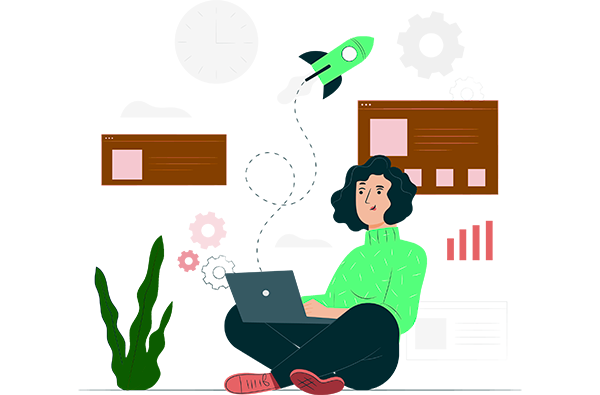
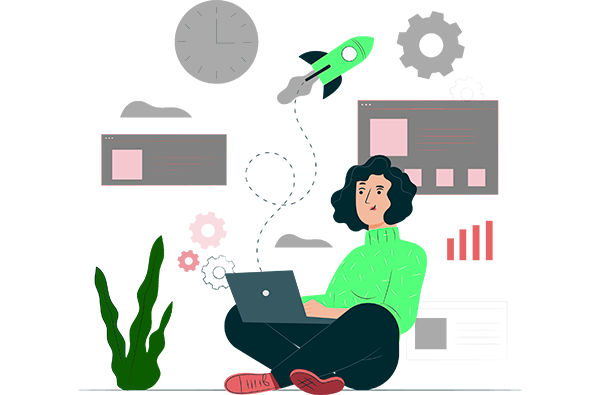
change color styles

diff --git a/index.html b/index.html
@@ -173,19 +173,19 @@
                   <g id="elipse">
                     <path id="Ð&shy;Ð»Ð»Ð¸Ð¿Ñ 1" fill-rule="evenodd" clip-rule="evenodd"
                       d="M191.327 46.8C197.911 46.7999 204.347 48.7521 209.821 52.4097C215.295 56.0674 219.562 61.2662 222.081 67.3487C224.601 73.4312 225.26 80.1243 223.975 86.5815C222.691 93.0386 219.521 98.9699 214.865 103.625C210.21 108.281 204.279 111.451 197.821 112.735C191.364 114.02 184.671 113.361 178.589 110.841C172.506 108.322 167.307 104.055 163.65 98.5807C159.992 93.1066 158.04 86.6707 158.04 80.087C158.04 71.2587 161.547 62.7921 167.79 56.5495C174.032 50.307 182.499 46.8 191.327 46.8V46.8ZM191.327 46.8C197.911 46.7999 204.347 48.7521 209.821 52.4097C215.295 56.0674 219.562 61.2662 222.081 67.3487C224.601 73.4312 225.26 80.1243 223.975 86.5815C222.691 93.0386 219.521 98.9699 214.865 103.625C210.21 108.281 204.279 111.451 197.821 112.735C191.364 114.02 184.671 113.361 178.589 110.841C172.506 108.322 167.307 104.055 163.65 98.5807C159.992 93.1066 158.04 86.6707 158.04 80.087C158.04 71.2587 161.547 62.7921 167.79 56.5495C174.032 50.307 182.499 46.8 191.327 46.8V46.8Z"
-                      stroke="#F100FF" stroke-width="2.5" />
+                      stroke="#d0d0d0" stroke-width="2.5" />
                     <path id="Ð&shy;Ð»Ð»Ð¸Ð¿Ñ 1_2" fill-rule="evenodd" clip-rule="evenodd"
                       d="M402.63 46.8C409.213 46.8 415.649 48.7523 421.123 52.41C426.597 56.0677 430.864 61.2665 433.383 67.349C435.903 73.4316 436.562 80.1246 435.277 86.5818C433.993 93.0389 430.823 98.9702 426.167 103.625C421.512 108.281 415.58 111.451 409.123 112.735C402.666 114.02 395.973 113.361 389.891 110.841C383.808 108.321 378.609 104.055 374.952 98.5807C371.294 93.1065 369.342 86.6707 369.342 80.087C369.342 71.2587 372.849 62.792 379.092 56.5495C385.334 50.307 393.801 46.8 402.63 46.8V46.8ZM402.63 46.8C409.213 46.8 415.649 48.7523 421.123 52.41C426.597 56.0677 430.864 61.2665 433.383 67.349C435.903 73.4316 436.562 80.1246 435.277 86.5818C433.993 93.0389 430.823 98.9702 426.167 103.625C421.512 108.281 415.58 111.451 409.123 112.735C402.666 114.02 395.973 113.361 389.891 110.841C383.808 108.321 378.609 104.055 374.952 98.5807C371.294 93.1065 369.342 86.6707 369.342 80.087C369.342 71.2587 372.849 62.792 379.092 56.5495C385.334 50.307 393.801 46.8 402.63 46.8V46.8Z"
-                      stroke="#F100FF" stroke-width="2.5" />
+                      stroke="#d0d0d0" stroke-width="2.5" />
                     <path id="Ð&shy;Ð»Ð»Ð¸Ð¿Ñ 1_3" fill-rule="evenodd" clip-rule="evenodd"
                       d="M126.489 238.996C133.073 238.996 139.508 240.948 144.982 244.606C150.456 248.264 154.722 253.463 157.242 259.545C159.761 265.628 160.42 272.321 159.135 278.778C157.851 285.235 154.68 291.166 150.025 295.821C145.369 300.477 139.438 303.647 132.981 304.931C126.524 306.215 119.831 305.556 113.749 303.036C107.666 300.517 102.467 296.25 98.8099 290.776C95.1522 285.302 93.2 278.867 93.2 272.283C93.2 267.911 94.0611 263.583 95.734 259.544C97.4069 255.505 99.859 251.836 102.95 248.745C106.041 245.654 109.711 243.202 113.75 241.529C117.789 239.856 122.117 238.995 126.489 238.996V238.996ZM126.489 238.996C133.073 238.996 139.508 240.948 144.982 244.606C150.456 248.264 154.722 253.463 157.242 259.545C159.761 265.628 160.42 272.321 159.135 278.778C157.851 285.235 154.68 291.166 150.025 295.821C145.369 300.477 139.438 303.647 132.981 304.931C126.524 306.215 119.831 305.556 113.749 303.036C107.666 300.517 102.467 296.25 98.8099 290.776C95.1522 285.302 93.2 278.867 93.2 272.283C93.2 267.911 94.0611 263.583 95.734 259.544C97.4069 255.505 99.859 251.836 102.95 248.745C106.041 245.654 109.711 243.202 113.75 241.529C117.789 239.856 122.117 238.995 126.489 238.996V238.996Z"
-                      stroke="#F100FF" stroke-width="2.5" />
+                      stroke="#d0d0d0" stroke-width="2.5" />
                     <path id="Ð&shy;Ð»Ð»Ð¸Ð¿Ñ 1_4" fill-rule="evenodd" clip-rule="evenodd"
                       d="M297.847 361.725C304.431 361.725 310.866 363.677 316.341 367.335C321.815 370.993 326.081 376.192 328.601 382.274C331.12 388.357 331.779 395.05 330.495 401.507C329.21 407.964 326.04 413.895 321.385 418.55C316.729 423.206 310.798 426.376 304.341 427.66C297.884 428.945 291.191 428.286 285.108 425.766C279.026 423.246 273.827 418.98 270.169 413.506C266.512 408.031 264.559 401.596 264.56 395.012C264.56 390.641 265.421 386.312 267.093 382.273C268.766 378.235 271.218 374.565 274.309 371.474C277.4 368.383 281.07 365.931 285.108 364.259C289.147 362.586 293.476 361.725 297.847 361.725V361.725ZM297.847 361.725C304.431 361.725 310.866 363.677 316.341 367.335C321.815 370.993 326.081 376.192 328.601 382.274C331.12 388.357 331.779 395.05 330.495 401.507C329.21 407.964 326.04 413.895 321.385 418.55C316.729 423.206 310.798 426.376 304.341 427.66C297.884 428.945 291.191 428.286 285.108 425.766C279.026 423.246 273.827 418.98 270.169 413.506C266.512 408.031 264.559 401.596 264.56 395.012C264.56 390.641 265.421 386.312 267.093 382.273C268.766 378.235 271.218 374.565 274.309 371.474C277.4 368.383 281.07 365.931 285.108 364.259C289.147 362.586 293.476 361.725 297.847 361.725V361.725Z"
-                      stroke="#F100FF" stroke-width="2.5" />
+                      stroke="#d0d0d0" stroke-width="2.5" />
                     <path id="Ð&shy;Ð»Ð»Ð¸Ð¿Ñ 1_5" fill-rule="evenodd" clip-rule="evenodd"
                       d="M469.204 238.996C475.788 238.996 482.224 240.948 487.698 244.605C493.172 248.263 497.439 253.462 499.958 259.544C502.478 265.627 503.137 272.32 501.852 278.777C500.568 285.234 497.398 291.165 492.742 295.821C488.087 300.476 482.156 303.646 475.699 304.931C469.241 306.215 462.548 305.556 456.466 303.037C450.383 300.517 445.185 296.251 441.527 290.777C437.869 285.302 435.917 278.867 435.917 272.283C435.917 267.912 436.778 263.583 438.45 259.544C440.123 255.505 442.575 251.836 445.666 248.745C448.757 245.654 452.427 243.202 456.466 241.529C460.504 239.856 464.833 238.995 469.204 238.996V238.996ZM469.204 238.996C475.788 238.996 482.224 240.948 487.698 244.605C493.172 248.263 497.439 253.462 499.958 259.544C502.478 265.627 503.137 272.32 501.852 278.777C500.568 285.234 497.398 291.165 492.742 295.821C488.087 300.476 482.156 303.646 475.699 304.931C469.241 306.215 462.548 305.556 456.466 303.037C450.383 300.517 445.185 296.251 441.527 290.777C437.869 285.302 435.917 278.867 435.917 272.283C435.917 267.912 436.778 263.583 438.45 259.544C440.123 255.505 442.575 251.836 445.666 248.745C448.757 245.654 452.427 243.202 456.466 241.529C460.504 239.856 464.833 238.995 469.204 238.996V238.996Z"
-                      stroke="#F100FF" stroke-width="2.5" />
+                      stroke="#d0d0d0" stroke-width="2.5" />
                   </g>
 
                   <g id="innovation">
@@ -258,15 +258,15 @@
                   </g>
 
                   <g id="pentagon">
-                    <line id="Line 4" x1="416.845" y1="115.05" x2="456.766" y2="234.558" stroke="#F100FF"
-                      stroke-width="6" />
-                    <line id="Line 5" x1="336.225" y1="375.132" x2="437.804" y2="300.581" stroke="#F100FF"
-                      stroke-width="6" />
-                    <line id="Line 3" x1="158.294" y1="299.821" x2="260.346" y2="373.722" stroke="#F100FF"
-                      stroke-width="6" />
-                    <line id="Line 1" x1="234" y1="79" x2="360" y2="79" stroke="#F100FF" stroke-width="6" />
-                    <line id="Line 2" x1="141.151" y1="237.703" x2="180.667" y2="118.059" stroke="#F100FF"
-                      stroke-width="6" />
+                    <line id="Line 4" x1="416.845" y1="115.05" x2="456.766" y2="234.558" stroke="#d0d0d0"
+                      stroke-width="1" />
+                    <line id="Line 5" x1="336.225" y1="375.132" x2="437.804" y2="300.581" stroke="#d0d0d0"
+                      stroke-width="1" />
+                    <line id="Line 3" x1="158.294" y1="299.821" x2="260.346" y2="373.722" stroke="#d0d0d0"
+                      stroke-width="1" />
+                    <line id="Line 1" x1="234" y1="79" x2="360" y2="79" stroke="#d0d0d0" stroke-width="1" />
+                    <line id="Line 2" x1="141.151" y1="237.703" x2="180.667" y2="118.059" stroke="#d0d0d0"
+                      stroke-width="1" />
                   </g>
 
                   <g id="quality-text">

diff --git a/assets/css/main.css b/assets/css/main.css
@@ -2793,7 +2793,7 @@ button:disabled,
 }
 
 #header h1 .logo-block .logo-svg {
-  fill: #3f8ff7;
+  fill: #d7d7d7;
   width: 52px;
   height: 52px;
   margin-right: 10px;
@@ -3112,7 +3112,7 @@ body.is-menu-visible #menu .inner {
 }
 
 #banner .logo .icon svg {
-  fill: #3f8ff7;
+  fill: #d7d7d7;
   width: 82px;
   height: 82px;
 }

diff --git a/assets/sass/layout/_header.scss b/assets/sass/layout/_header.scss
@@ -40,7 +40,7 @@
       }
 
       .logo-svg {
-        fill: _palette(border);
+        fill: _palette(fg);
         width: 52px;
         height: 52px;
         margin-right: 10px;

diff --git a/assets/sass/layout/_banner.scss b/assets/sass/layout/_banner.scss
@@ -44,7 +44,7 @@
       align-items: center;
 
       svg {
-        fill: _palette(border);
+        fill: _palette(fg);
         width: 82px;
         height: 82px;
       }
